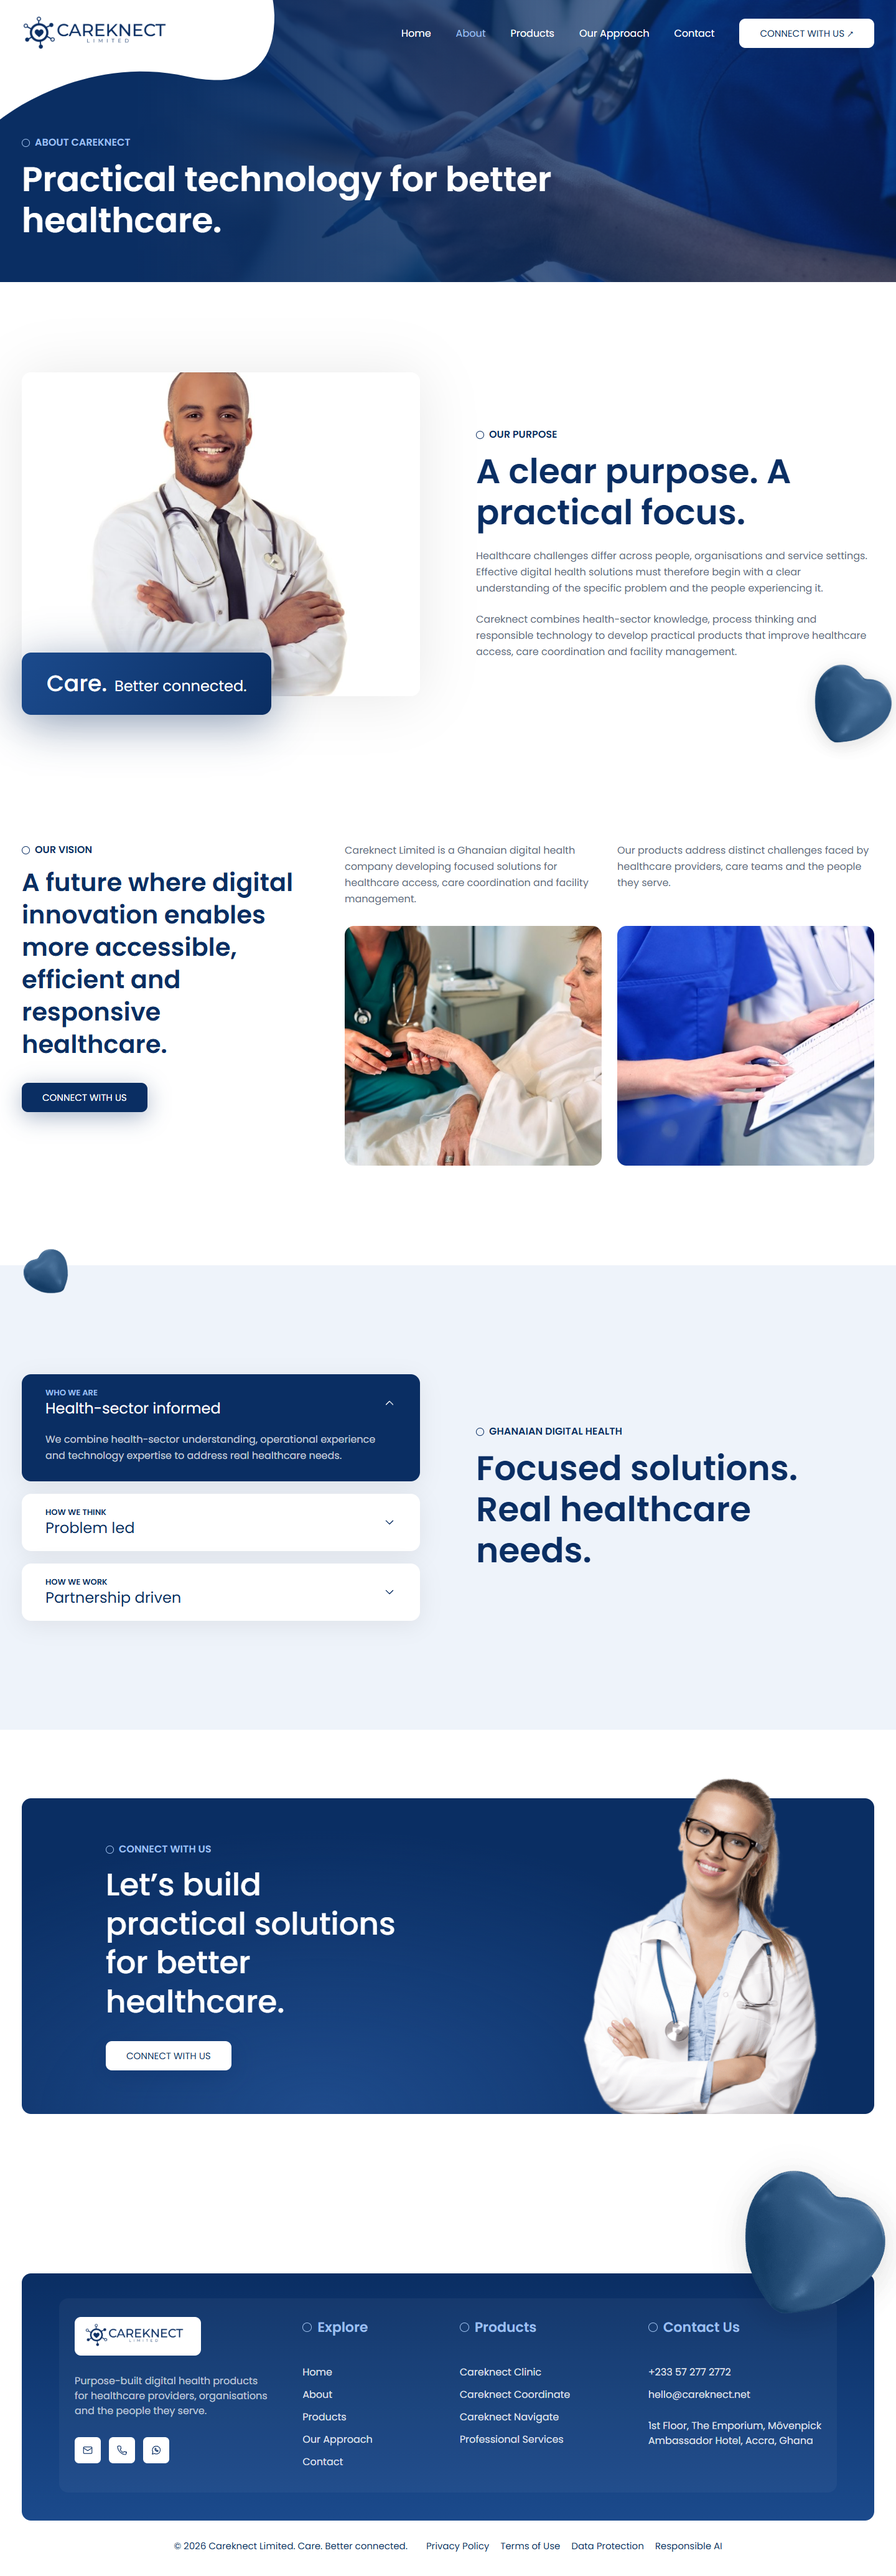
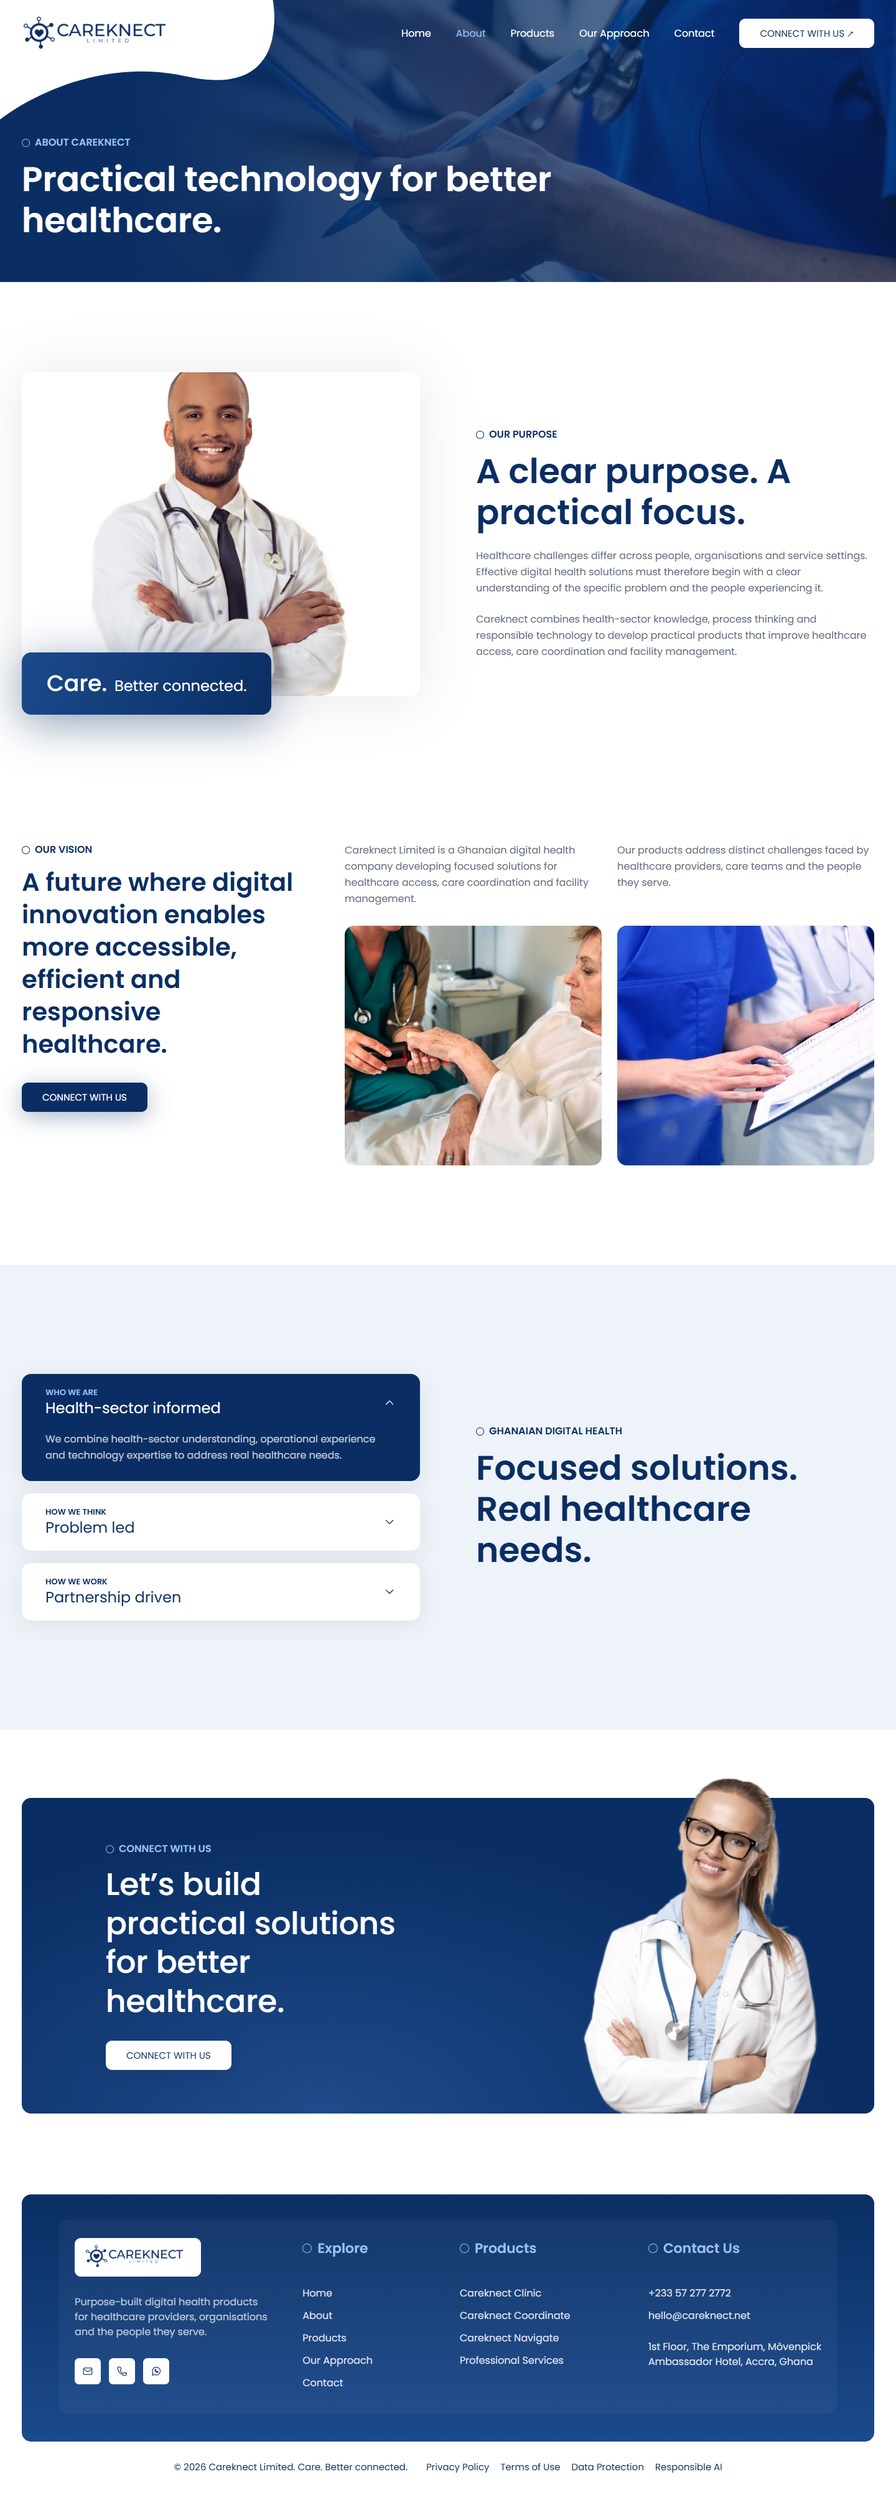
Remove unused Heart component and related assets

diff --git a/app/styles/site.css b/app/styles/site.css
@@ -72,8 +72,6 @@ body {
 @keyframes AuxScaleUp1 { from { transform: scale(0.7); } to { transform: none; opacity: 1; } }
 @keyframes AuxScaleDown { from { transform: scale(1.1); } to { transform: none; opacity: 1; } }
 @keyframes AuxScaleCustom { from { transform: scale(var(--r-s)); } to { transform: none; opacity: 1; } }
-@keyframes AuxPulseOut1 { from { transform: scale3d(1, 1, 1); } 50% { transform: scale3d(1.05, 1.05, 1.05); } to { opacity: 1; transform: none; } }
-@keyframes AuxPulseOut2 { from { transform: scale3d(1, 1, 1); } 50% { transform: scale3d(1.1, 1.1, 1.1); } to { opacity: 1; transform: none; } }
 @keyframes AuxRotateInDownLeft1 { from { transform-origin: left bottom; transform: rotate3d(0, 0, 1, -35deg); } to { transform-origin: left bottom; transform: none; opacity: 1; } }
 @keyframes AuxSlideFromBot { from { transform: translateY(100%); } to { opacity: 1; transform: none; } }
 @keyframes AuxSlideFromRight { from { transform: translateX(100%); } to { opacity: 1; transform: none; } }
@@ -99,8 +97,6 @@ html.js .reveal {
 .r-scale-up-1 { --r-name: AuxScaleUp1; }
 .r-scale-down { --r-name: AuxScaleDown; }
 .r-scale-custom { --r-name: AuxScaleCustom; }
-.r-pulse-1 { --r-name: AuxPulseOut1; }
-.r-pulse-2 { --r-name: AuxPulseOut2; }
 .r-rotate-down-left { --r-name: AuxRotateInDownLeft1; }
 
 /* Slide reveals: the wrapper masks while the child moves in. */
@@ -285,26 +281,6 @@ html.js .r-slide-right.is-in > * { animation: AuxSlideFromRight var(--r-d) var(-
   margin-top: 50px;
 }
 
-/* ---------- Decorative hearts ---------- */
-
-.heart {
-  position: absolute;
-  z-index: 3;
-  pointer-events: none;
-}
-.heart img { width: 100%; height: auto; display: block; filter: saturate(0.65) brightness(0.72); }
-
-.heart--hero-top { left: calc(538 * var(--u)); top: calc(105 * var(--u)); width: calc(290 * var(--u)); }
-.heart--hero-bottom { left: calc(-101 * var(--u)); top: calc(573 * var(--u)); width: calc(468 * var(--u)); }
-.heart--about-static { left: calc(1 * var(--u)); bottom: calc(10 * var(--u)); width: calc(177 * var(--u)); }
-.heart--products { right: calc(-117 * var(--u)); bottom: calc(-212 * var(--u)); width: calc(439 * var(--u)); z-index: 3; }
-.heart--cta-left { left: calc(1 * var(--u)); top: calc(-187 * var(--u)); width: calc(177 * var(--u)); }
-.heart--cta-right { right: calc(-31 * var(--u)); bottom: calc(-217 * var(--u)); width: calc(200 * var(--u)); }
-.heart--footer { right: calc(-69 * var(--u)); top: calc(-5 * var(--u)); width: calc(439 * var(--u)); z-index: 4; }
-.heart--purpose { right: calc(-40 * var(--u)); bottom: calc(-40 * var(--u)); width: calc(240 * var(--u)); }
-.heart--grey { left: 0; top: calc(-60 * var(--u)); width: calc(150 * var(--u)); }
-.heart--contact { left: calc(60 * var(--u)); bottom: calc(-140 * var(--u)); width: calc(130 * var(--u)); }
-
 /* ---------- Header ---------- */
 
 .site-header {
@@ -444,8 +420,7 @@ html.js .r-slide-right.is-in > * { animation: AuxSlideFromRight var(--r-d) var(-
 
 .split-about {
   position: relative;
-  min-height: calc(967 * var(--u));
-  padding: calc(230 * var(--u)) 0 calc(180 * var(--u));
+  padding: calc(150 * var(--u)) 0 calc(90 * var(--u));
 }
 
 .split-about-grid {
@@ -577,7 +552,7 @@ html.js .r-slide-right.is-in > * { animation: AuxSlideFromRight var(--r-d) var(-
 .products-section {
   position: relative;
   z-index: 2;
-  padding: 66px 0 calc(224 * var(--u));
+  padding: 66px 0 calc(120 * var(--u));
 }
 
 .products-carousel {
@@ -865,7 +840,7 @@ html.js .r-slide-right.is-in > * { animation: AuxSlideFromRight var(--r-d) var(-
   gap: 50px;
   max-width: 1440px;
   margin: 0 auto;
-  padding: 100px 35px calc(240 * var(--u));
+  padding: 100px 35px calc(120 * var(--u));
 }
 
 .steps-track-wrap { min-width: 0; }
@@ -958,7 +933,7 @@ html.js .r-slide-right.is-in > * { animation: AuxSlideFromRight var(--r-d) var(-
 
 .site-footer {
   position: relative;
-  padding-top: calc(256 * var(--u));
+  padding-top: calc(130 * var(--u));
 }
 
 .footer-panel {
@@ -1366,22 +1341,10 @@ html.js .r-slide-right.is-in > * { animation: AuxSlideFromRight var(--r-d) var(-
   .shape--mid { left: calc(25 * var(--u)); top: calc(300 * var(--u)); width: calc(195 * var(--u)); height: calc(195 * var(--u)); }
   .shape--sky { left: calc(180 * var(--u)); top: calc(110 * var(--u)); width: calc(150 * var(--u)); height: calc(150 * var(--u)); }
   .hero-photo { left: calc(75 * var(--u)); top: calc(190 * var(--u)); width: calc(280 * var(--u)); }
-  .heart--hero-top { left: calc(255 * var(--u)); top: calc(145 * var(--u)); width: calc(140 * var(--u)); }
-  .heart--hero-bottom { left: calc(5 * var(--u)); top: calc(385 * var(--u)); width: calc(170 * var(--u)); }
   .hero-panel { position: relative; left: auto; top: auto; width: auto; height: auto; margin: 0 24px; padding: 32px 24px; }
   .hero-follow { position: static; margin: 30px 24px 0; }
   .hero-follow-row { justify-content: flex-start; flex-wrap: wrap; gap: 18px; }
   .hero-follow-line { width: 60px; }
-
-  /* Hearts sit out of the way of stacked content */
-  .heart--about-static,
-  .heart--cta-left,
-  .heart--grey,
-  .heart--contact,
-  .heart--purpose { display: none; }
-  .heart--products { width: 130px; right: -30px; bottom: -40px; }
-  .heart--cta-right { width: 100px; right: -14px; bottom: -80px; }
-  .heart--footer { width: 150px; right: -20px; top: 10px; }
 
   /* Stacked two-column layouts */
   .split-about { min-height: 0; padding: 70px 0; }
@@ -1439,7 +1402,7 @@ html.js .r-slide-right.is-in > * { animation: AuxSlideFromRight var(--r-d) var(-
 
   .services-section { padding: 90px 0 40px; }
 
-  .site-footer { padding-top: 110px; }
+  .site-footer { padding-top: 70px; }
   .footer-panel { padding: 18px; }
   .footer-grid { grid-template-columns: minmax(0, 1fr); padding: 26px 20px; }
   .footer-col ul { margin-top: 22px; }
@@ -1475,8 +1438,5 @@ html.js .r-slide-right.is-in > * { animation: AuxSlideFromRight var(--r-d) var(-
   .btn { padding-inline: 22px; font-size: 14px; }
 }
 
-/* When the call to action closes a page, it needs space above and its heart
-   would collide with the footer's. */
+/* When the call to action closes a page, it needs space above. */
 .cta-section:last-child { padding-top: 110px; }
-.cta-section:last-child .heart--cta-right,
-.cta-section:last-child .heart--cta-left { display: none; }

diff --git a/app/routes/home.tsx b/app/routes/home.tsx
@@ -1,7 +1,7 @@
 import { Link } from "react-router";
 import { Track, useLoop } from "~/components/carousel";
 import { Icon } from "~/components/icons";
-import { Heart, Reveal, ScrollMotion } from "~/components/motion";
+import { Reveal, ScrollMotion } from "~/components/motion";
 import { ArrowButton, Btn, ClosingCta, Eyebrow } from "~/components/ui";
 import {
   contact,
@@ -38,16 +38,6 @@ function Hero() {
         <ScrollMotion moveIn="rotateIn" moveOut="moveHorizontal" x={-30} rotate={20} className="hero-photo">
           <Reveal anim="scale-custom" duration={1.8}>
             <img src={img.heroPhoto} alt="" />
-          </Reveal>
-        </ScrollMotion>
-        <ScrollMotion moveOut="rotateOut" rotate={30} className="heart heart--hero-top">
-          <Reveal anim="pulse-2" duration={1} ease="back">
-            <img src={img.heartTop} alt="" />
-          </Reveal>
-        </ScrollMotion>
-        <ScrollMotion moveOut="rotateIn" rotate={15} className="heart heart--hero-bottom">
-          <Reveal anim="pulse-2" duration={1} ease="back">
-            <img src={img.heartBottom} alt="" />
           </Reveal>
         </ScrollMotion>
       </div>
@@ -96,11 +86,6 @@ function Hero() {
 function Belief() {
   return (
     <section className="split-about">
-      <div className="heart heart--about-static" aria-hidden="true">
-        <Reveal anim="pulse-2">
-          <img src={img.heartSmall} alt="" />
-        </Reveal>
-      </div>
       <div className="wrap split-about-grid">
         <div className="split-about-copy">
           <Eyebrow>OUR BELIEF</Eyebrow>
@@ -192,7 +177,6 @@ function ProductCarousel() {
       <Reveal anim="fade-up" className="center-action">
         <Btn to="/products">Explore All Products and Services</Btn>
       </Reveal>
-      <Heart src={img.heartLarge} className="heart--products" direction="rotateIn" />
     </section>
   );
 }

diff --git a/app/components/motion.tsx b/app/components/motion.tsx
@@ -19,8 +19,6 @@ export type RevealAnim =
   | "scale-up-1"
   | "scale-down"
   | "scale-custom"
-  | "pulse-1"
-  | "pulse-2"
   | "rotate-down-left"
   | "slide-bot"
   | "slide-right";
@@ -211,30 +209,5 @@ export function ScrollMotion({
     <div ref={ref} className={`scroll-motion ${className}`.trim()} style={style}>
       {children}
     </div>
-  );
-}
-
-/** Decorative 3D heart: scroll-linked rotation around a pulse entrance. */
-export function Heart({
-  src,
-  className,
-  direction = "rotateIn",
-  rotate = 30,
-  duration = 1.8,
-  ease = "out",
-}: {
-  src: string;
-  className: string;
-  direction?: "rotateIn" | "rotateOut";
-  rotate?: number;
-  duration?: number;
-  ease?: keyof typeof EASE;
-}) {
-  return (
-    <ScrollMotion moveOut={direction} rotate={rotate} className={`heart ${className}`}>
-      <Reveal anim="pulse-2" duration={duration} ease={ease}>
-        <img src={src} alt="" aria-hidden="true" draggable={false} />
-      </Reveal>
-    </ScrollMotion>
   );
 }

diff --git a/app/routes/about.tsx b/app/routes/about.tsx
@@ -1,6 +1,6 @@
 import { useState } from "react";
 import { Icon } from "~/components/icons";
-import { Heart, Reveal } from "~/components/motion";
+import { Reveal } from "~/components/motion";
 import { Btn, ClosingCta, Eyebrow, PageHero } from "~/components/ui";
 import { img, pillars } from "~/content/site";
 
@@ -58,7 +58,6 @@ export default function About() {
       />
 
       <section className="inner-section purpose-section">
-        <Heart src={img.heartLarge} className="heart--purpose" direction="rotateOut" />
         <div className="wrap purpose-grid">
           <div className="purpose-media">
             <Reveal anim="scale-up" duration={1.8} className="purpose-photo">
@@ -122,7 +121,6 @@ export default function About() {
       </section>
 
       <section className="grey-section">
-        <Heart src={img.heartSmall} className="heart--grey" direction="rotateIn" />
         <div className="wrap accordion-grid">
           <Accordion />
           <div>

diff --git a/app/components/ui.tsx b/app/components/ui.tsx
@@ -2,7 +2,7 @@ import type { ReactNode } from "react";
 import { Link } from "react-router";
 import { img } from "~/content/site";
 import { Icon } from "./icons";
-import { Heart, Reveal } from "./motion";
+import { Reveal } from "./motion";
 
 /** Small label with the template's hollow ring, sliding up from behind a mask. */
 export function Eyebrow({
@@ -77,7 +77,6 @@ export function ClosingCta({
 }) {
   return (
     <section className="cta-section">
-      <Heart src={img.heartSmall} className="heart--cta-left" direction="rotateIn" />
       <div className="wrap">
         <div className="cta-panel">
           <div className="cta-copy">
@@ -99,12 +98,6 @@ export function ClosingCta({
           </Reveal>
         </div>
       </div>
-      <Heart
-        src={img.heartLarge}
-        className="heart--cta-right"
-        direction="rotateOut"
-        ease="inOut"
-      />
     </section>
   );
 }

diff --git a/app/routes/contact.tsx b/app/routes/contact.tsx
@@ -2,7 +2,7 @@ import { useEffect, useRef } from "react";
 import { Form, useActionData, useNavigation, useSearchParams } from "react-router";
 import type { Route } from "./+types/contact";
 import { Icon } from "~/components/icons";
-import { Heart, Reveal } from "~/components/motion";
+import { Reveal } from "~/components/motion";
 import { Eyebrow, PageHero } from "~/components/ui";
 import { contact, enquiryTypes, img, privacyHref } from "~/content/site";
 
@@ -281,7 +281,6 @@ export default function Contact() {
       />
 
       <section className="inner-section contact-section">
-        <Heart src={img.heartSmall} className="heart--contact" direction="rotateIn" />
         <div className="wrap contact-grid">
           <div>
             <Eyebrow>ENQUIRY FORM</Eyebrow>

diff --git a/app/components/site-layout.tsx b/app/components/site-layout.tsx
@@ -2,7 +2,7 @@ import { useEffect, useState } from "react";
 import { Link, NavLink, Outlet, useLocation } from "react-router";
 import { contact, footerBlurb, img, legal, nav, products } from "~/content/site";
 import { Icon } from "./icons";
-import { Heart, Reveal } from "./motion";
+import { Reveal } from "./motion";
 
 const LOGO = "/images/brand/careknect-logo.png";
 
@@ -57,7 +57,6 @@ function FooterTitle({ children }: { children: string }) {
 function Footer() {
   return (
     <footer className="site-footer">
-      <Heart src={img.heartLarge} className="heart--footer" direction="rotateIn" rotate={-30} />
       <div className="wrap">
         <div className="footer-panel">
           <div className="footer-grid">

diff --git a/app/routes/approach.tsx b/app/routes/approach.tsx
@@ -1,5 +1,5 @@
 import { Icon } from "~/components/icons";
-import { Heart, Reveal } from "~/components/motion";
+import { Reveal } from "~/components/motion";
 import { ClosingCta, Eyebrow, PageHero } from "~/components/ui";
 import { img, steps } from "~/content/site";
 
@@ -24,7 +24,6 @@ export default function Approach() {
       />
 
       <section className="inner-section purpose-section">
-        <Heart src={img.heartLarge} className="heart--purpose" direction="rotateOut" />
         <div className="wrap purpose-grid">
           <div className="purpose-media">
             <Reveal anim="scale-up" duration={1.8} className="purpose-photo">

diff --git a/app/content/site.ts b/app/content/site.ts
@@ -6,10 +6,6 @@ const T = "/images/template/";
 export const img = {
   blob: `${T}Path-1.svg`,
   heroPhoto: `${T}ML1A8632copy-79381-original-protected.png`,
-  heartTop: `${T}Mask-Group-42.png`,
-  heartBottom: `${T}Mask-Group-43.png`,
-  heartSmall: `${T}Mask-Group-4.png`,
-  heartLarge: `${T}Mask-Group-6.png`,
   cloud: `${T}Mask-Group-5.png`,
   aboutPhoto: `${T}A045_07290405_C055-71016-original-protected.jpg`,
   bandBg: `${T}A081_11281412_C046-65327-original-protected-scaled.jpg`,
